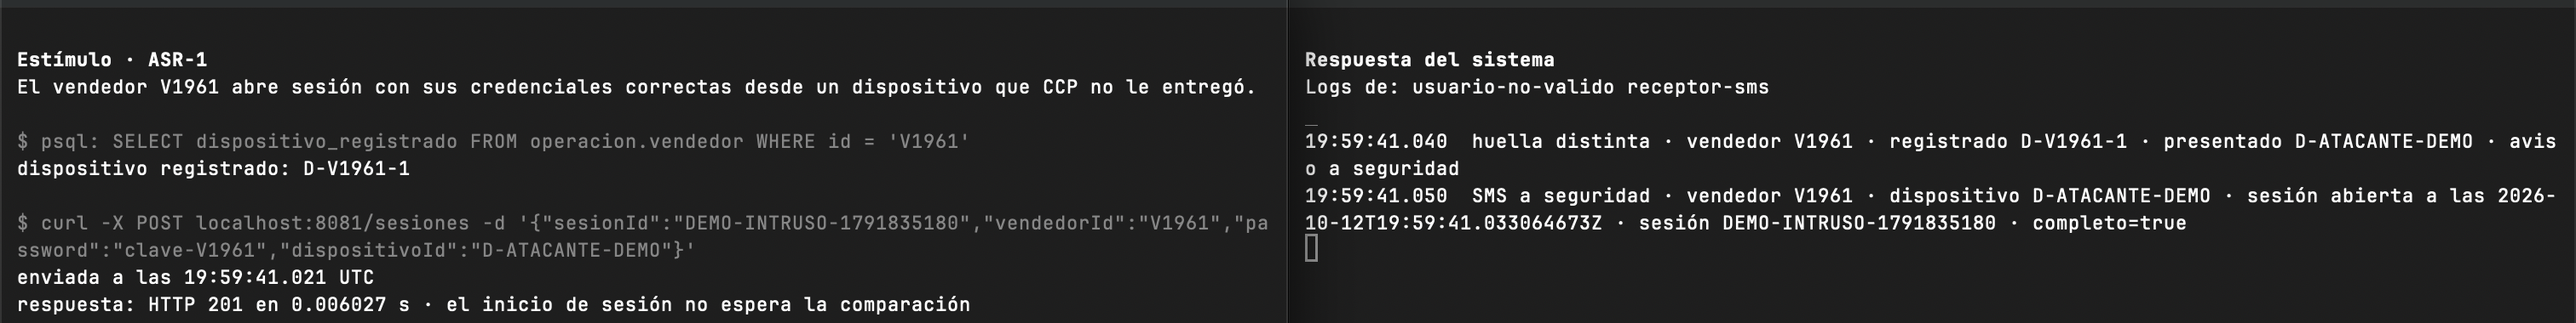
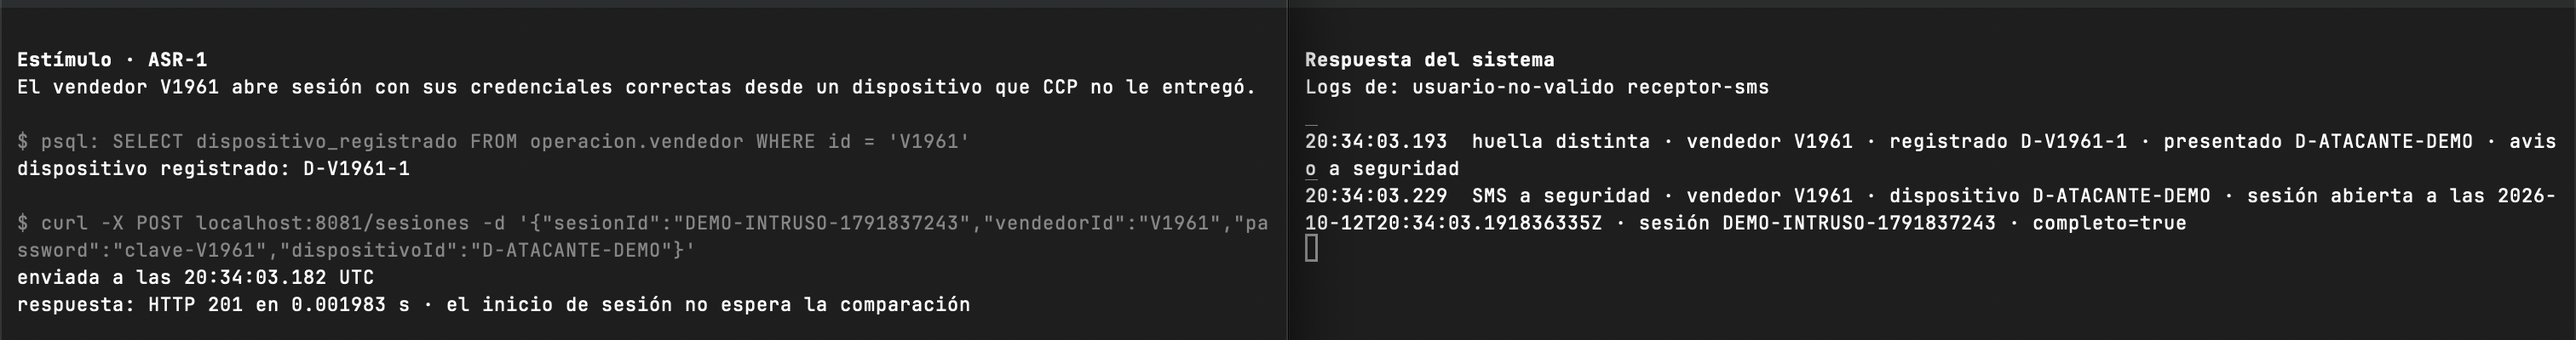
Agrega a E01 la evidencia en Grafana y rehace sus capturas de terminal
Las capturas del intruso y del cambio legítimo se repiten con 75 sesiones
legítimas de fondo, y el log de cada caso se filtra para que se vea solo
el caso. El tablero de E01, en la ventana de la demostración, muestra
2 intrusos con aviso a tiempo, 0 escapes y 0 falsas alarmas; el panel
«Últimos avisos» muestra lo que recibió seguridad.

El tablero de E02 cambia de título y descripción: prueba ASR-4, con la
detección de ASR-3, según la H2 vigente.

diff --git a/deploy/observabilidad/generar-tableros.py b/deploy/observabilidad/generar-tableros.py
@@ -360,9 +360,11 @@ SELECT ts AS time, etapa || ' responde de nuevo' AS text, 'reinicio' AS tags
 FROM registro.evento WHERE tipo = 'etapa.reiniciada' AND $__timeFilter(ts)""", VERDE),
         anotacion_pg("Corridas", ANOT_CORRIDA.format(exp="E02"), AZUL),
     ]
-    return t.json("e02", "E02 · Detección del pedido detenido y envío a la Dead-Letter-Queue (H2, ASR-3)",
-                  "Si el Monitor sondea cada etapa y avisa a ventas cuando una no responde N sondeos seguidos, y ventas "
-                  "envía sus pedidos pendientes a la Dead-Letter-Queue, todo pedido detenido llega a ella en ≤ 30 s.",
+    return t.json("e02", "E02 · El pedido detenido, con destino y sin efectos duplicados (H2, ASR-4; detección de ASR-3)",
+                  "Creemos que un Monitor de la cadena que lee del punto de salud de cada etapa los pedidos atascados "
+                  "por más de U s, y etapas idempotentes, para un pedido detenido en una etapa (ASR-4), dará como "
+                  "resultado que el pedido llegue a la Dead-Letter-Queue sin efectos duplicados, con la etapa que falta "
+                  "y la causa, en ≤ 30 s, que es el plazo de detección de ASR-3.",
                   anot)
 
 

diff --git a/docs/results.md b/docs/results.md
@@ -88,11 +88,12 @@ como supuestos, y cada una se cambia con una variable, sin tocar el código:
 | Caída de una etapa (D2) | El proceso muere con SIGKILL durante 45 s y luego se reinicia | El trabajo que la etapa tenía sin terminar vuelve a su cola del bróker y se retoma al reiniciar |
 
 **Dos clases de evidencia.** Las cifras salen de las corridas de decisión.
-Las capturas de cada escenario salen de una demostración aparte, hecha el 12 de
-octubre de 2026 entre las 14:59 y las 15:07 con el mismo prototipo y el guion
-`load/evidencias.sh`. Cada captura muestra un solo caso: a la izquierda, lo que
-se le hizo al sistema; a la derecha, lo que el sistema registró. Las horas de
-las capturas están en UTC.
+Las capturas de cada escenario salen de demostraciones aparte, hechas el 12 de
+octubre de 2026 con el mismo prototipo y el guion `load/evidencias.sh`. Cada
+captura de terminal muestra un solo caso: a la izquierda, lo que se le hizo al
+sistema; a la derecha, lo que el sistema registró, con la hora en UTC. Debajo,
+el tablero de Grafana o la consola del bróker muestran el mismo caso desde la
+operación, con la hora de Bogotá.
 
 Para la demostración se agregó a cinco micros una línea de log por hecho. Ese
 cambio no altera lo que se mide, así que E01 no se repitió por él.
@@ -113,12 +114,12 @@ busca a qué tasa empieza a atrasarse el aviso.
 
 **Figura 2. Un intruso.** A la izquierda, el vendedor V1961 abre sesión con
 sus credenciales correctas desde `D-ATACANTE-DEMO`, que no es su dispositivo
-registrado (`D-V1961-1`). El inicio de sesión responde en 6 ms, sin esperar
-la comparación. A la derecha, el Verificador ve la huella distinta 19 ms
-después del envío, y el SMS llega a seguridad a los 29 ms con el vendedor, el
+registrado (`D-V1961-1`). El inicio de sesión responde en 2 ms, sin esperar
+la comparación. A la derecha, el Verificador ve la huella distinta 11 ms
+después del envío, y el SMS llega a seguridad a los 47 ms con el vendedor, el
 dispositivo y la hora de apertura.
 
-![Captura de E01: a la izquierda, V1961 abre sesión desde D-ATACANTE-DEMO; a la derecha, el Verificador marca la huella distinta y el SMS llega a seguridad 29 ms después](assets/resultados/evidencias/asr1-intruso.png)
+![Captura de E01: a la izquierda, V1961 abre sesión desde D-ATACANTE-DEMO; a la derecha, el Verificador marca la huella distinta y el SMS llega a seguridad 47 ms después](assets/resultados/evidencias/asr1-intruso.png)
 
 **Figura 3. El contraste: un cambio legítimo de dispositivo.** El vendedor
 V0777 registra un dispositivo nuevo y abre sesión desde él un instante
@@ -126,6 +127,22 @@ después. El Verificador compara la huella, ve que coincide con la que se acaba
 de registrar y no avisa.
 
 ![Captura de E01: V0777 registra un dispositivo nuevo y abre sesión desde él; el Verificador ve que la huella coincide y no envía aviso](assets/resultados/evidencias/asr1-cambio-legitimo.png)
+
+**Figura 4. Lo mismo en el tablero de E01.** Durante la demostración corrieron
+75 sesiones legítimas de fondo, una por segundo, desde el dispositivo que cada
+vendedor ya tenía registrado. El tablero cuenta 2 sesiones de intruso en la
+ventana: la de la Figura 2 y un intento anterior de la misma captura. Las dos
+tienen su aviso a tiempo, no hay escapes y no hay falsas alarmas. En «Demora de
+cada aviso», cada punto es un intruso, y los dos quedan lejos de la línea de
+2 s.
+
+![Tablero de E01 en la ventana de la demostración: 2 sesiones de intruso, 2 avisos a tiempo, 0 escapes, 0 falsas alarmas y la demora de cada aviso](assets/resultados/evidencias/asr1-grafana.png)
+
+**Figura 5. Lo que recibió seguridad.** El panel «Últimos avisos» cruza cada
+aviso con su sesión. Los dos llevan el vendedor V1961 y el dispositivo
+`D-ATACANTE-DEMO`, están completos y llegaron en 36,5 ms y 606 ms.
+
+![Panel «Últimos avisos» del tablero de E01: dos avisos de V1961 desde D-ATACANTE-DEMO, completos, con demoras de 36,5 ms y 606 ms](assets/resultados/evidencias/asr1-grafana-avisos.png)
 
 ### Lo que midieron las corridas
 
@@ -153,7 +170,7 @@ cual llegó el 95 % de los avisos.
 | S4 a 3× (6 aperturas/s) | 10 | 17 ms | 23 ms | 23 ms |
 | S4 a 5× (10 aperturas/s) | 10 | 17 ms | 34 ms | 38 ms |
 
-**Figura 4. Recorrido de una apertura de sesión en E01 (DG-SEQ-001).** El
+**Figura 6. Recorrido de una apertura de sesión en E01 (DG-SEQ-001).** El
 reloj arranca en t0, cuando el micro de sesiones (Gestor de sesión en el
 diagrama) publica `sesion.abierta`, y se detiene en t1, cuando el aviso llega al
 receptor del SMS. Si la huella coincide con la registrada, el Verificador
@@ -231,7 +248,7 @@ etapa estaba viva, cayó en D3; su resultado está al final de esta sección.
 
 ### Tres casos de punta a punta
 
-**Figura 5. Un pedido congelado en una etapa viva.** A la izquierda, validación
+**Figura 7. Un pedido congelado en una etapa viva.** A la izquierda, validación
 de despacho acepta el pedido P7-2 y lo olvida. La etapa responde HTTP 200 en
 cada sondeo, y al final ventas muestra el estado del pedido: facturación e
 inventario completados y despacho en curso, que es el estímulo de ASR-4. A la
@@ -241,14 +258,14 @@ confirma en la Dead-Letter-Queue con la etapa que falta y la causa
 
 ![Captura de E02: despacho responde HTTP 200 mientras el pedido P7-2 queda atascado; el Monitor lo detecta y ventas lo envía a la Dead-Letter-Queue con causa PEDIDO_ATASCADO](assets/resultados/evidencias/asr4-pedido-congelado.png)
 
-**Figura 6. Una entrega repetida.** El bróker le vuelve a entregar a
+**Figura 8. Una entrega repetida.** El bróker le vuelve a entregar a
 facturación el pedido P6-13, que ya había facturado. Antes de la entrega, el
 pedido tiene 1 entrega y 1 factura. La etapa encuentra su recibo terminado y no
 repite el efecto. Después, el pedido tiene 2 entregas y sigue con 1 factura.
 
 ![Captura de E02: facturación recibe dos veces el pedido P6-13 y emite una sola factura](assets/resultados/evidencias/asr4-entrega-repetida.png)
 
-**Figura 7. Una etapa caída.** Descargue de inventario muere con pedidos en
+**Figura 9. Una etapa caída.** Descargue de inventario muere con pedidos en
 curso. El Monitor la declara detenida 5,0 s después, al tercer sondeo sin
 respuesta, y 8 ms más tarde ventas empieza a confirmar en la cola sus pedidos
 pendientes. Cada uno lleva la etapa que falta y la causa `ETAPA_CAIDA`.
@@ -313,7 +330,7 @@ la cola, no la reanudación ni la entrega a una persona; la consulta está en
 
 #### La idempotencia: ningún efecto duplicado
 
-**Figura 8. Una entrega repetida en D5 (DG-SEQ-004).** El inyector toma un
+**Figura 10. Una entrega repetida en D5 (DG-SEQ-004).** El inyector toma un
 pedido que la etapa ya terminó y se lo vuelve a entregar por el bróker. La
 etapa busca el recibo, lo encuentra terminado y descarta la entrega sin repetir
 el efecto. Vuelve a publicar `etapa.completada`, por si el aviso anterior se
@@ -345,7 +362,7 @@ idempotente, y D5 muestra que una entrega repetida no repite el efecto.
 
 #### La detección que lo precede (ASR-3)
 
-**Figura 9. Un pedido congelado en D3 (DG-SEQ-003).** El inyector le pide a la
+**Figura 11. Un pedido congelado en D3 (DG-SEQ-003).** El inyector le pide a la
 etapa que acepte el próximo pedido y lo olvide sin terminarlo. La etapa guarda
 el recibo antes de confirmar el mensaje al bróker, así que el pedido queda en
 curso en su tabla. En cada sondeo, el punto de salud lee esa tabla y responde
@@ -368,7 +385,7 @@ lleva demasiado tiempo sin terminar, y lo lee del recibo que la etapa guardó
 antes de confirmar el mensaje. Por eso ve también el pedido que la etapa aceptó
 y olvidó.
 
-**Figura 10. Una caída de etapa en D2 (DG-SEQ-002).** El inyector mata la etapa,
+**Figura 12. Una caída de etapa en D2 (DG-SEQ-002).** El inyector mata la etapa,
 y el Monitor la declara detenida al tercer sondeo sin respuesta. Desde ahí avisa
 en cada ciclo al Coordinador, que es el micro de ventas como en DG-CMP-005, y
 este publica cada pedido pendiente de esa etapa como `pedido.detenido`. El
